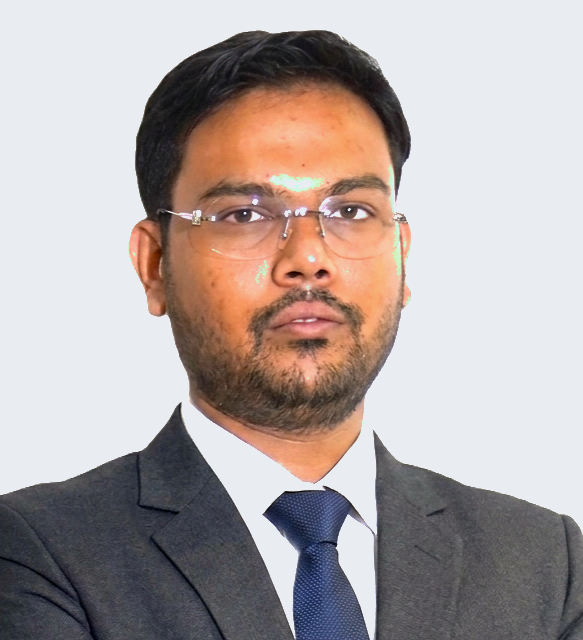
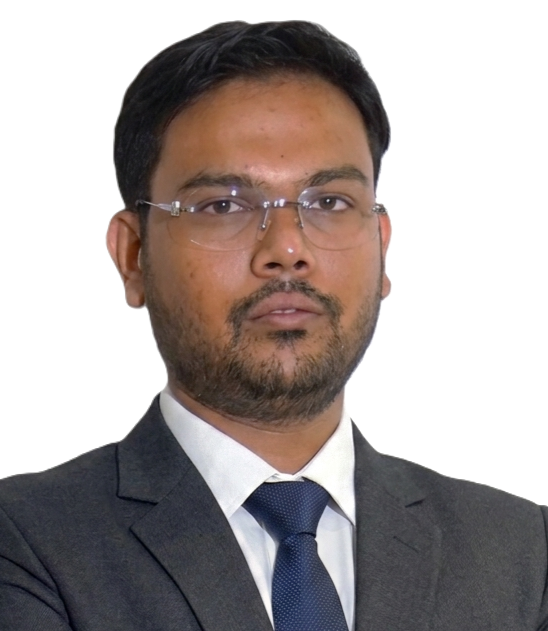
photos  added

diff --git a/src/app/about/page.tsx b/src/app/about/page.tsx
@@ -202,16 +202,16 @@ export default function AboutPage() {
         <div className="grid grid-cols-1 md:grid-cols-3 gap-10 lg:gap-12">
           {[
             {
-              name: "Sanjay Gupta",
-              role: "Founder and Managing Director",
-              img: "/Team/sanjay_unified.png",
-              bio: "With over four decades of extensive experience in the commercial real estate industry, Sanjay is the visionary driving force behind 22workspace. His leadership and strategic foresight ensure exceptional service delivery, securing optimal results and high-value transactions for all premium clients."
-            },
-            {
               name: "Kushagra Gupta",
               role: "Executive Director",
               img: "/Team/kushagra.png",
               bio: "Kushagra is a dedicated professional committed to transforming the modern workspace experience. Focusing on operational excellence and tailored commercial solutions, he ensures seamless execution while contributing to sustained business growth and long-term client success."
+            },
+            {
+              name: "Sanjay Gupta",
+              role: "Founder and Managing Director",
+              img: "/Team/sanjay_unified.png",
+              bio: "With over four decades of extensive experience in the commercial real estate industry, Sanjay is the visionary driving force behind 22workspace. His leadership and strategic foresight ensure exceptional service delivery, securing optimal results and high-value transactions for all premium clients."
             },
             {
               name: "Kashish Gupta",
@@ -228,7 +228,7 @@ export default function AboutPage() {
               viewport={{ once: true, amount: 0.2 }}
               transition={{ duration: 0.8, delay: idx * 0.15 }}
             >
-              <div className="aspect-[3/4] w-full relative mb-6 bg-zinc-100 overflow-hidden">
+              <div className="aspect-[3/4] w-full relative mb-6 bg-white overflow-hidden">
                 <Image src={person.img} alt={person.name} fill className="object-cover object-top" sizes="(max-width: 768px) 100vw, 33vw" />
               </div>
               <h3 className="text-2xl md:text-3xl text-zinc-900 tracking-tight mb-2" style={{ fontFamily: 'var(--font-serif)', fontWeight: 400 }}>{person.name}</h3>